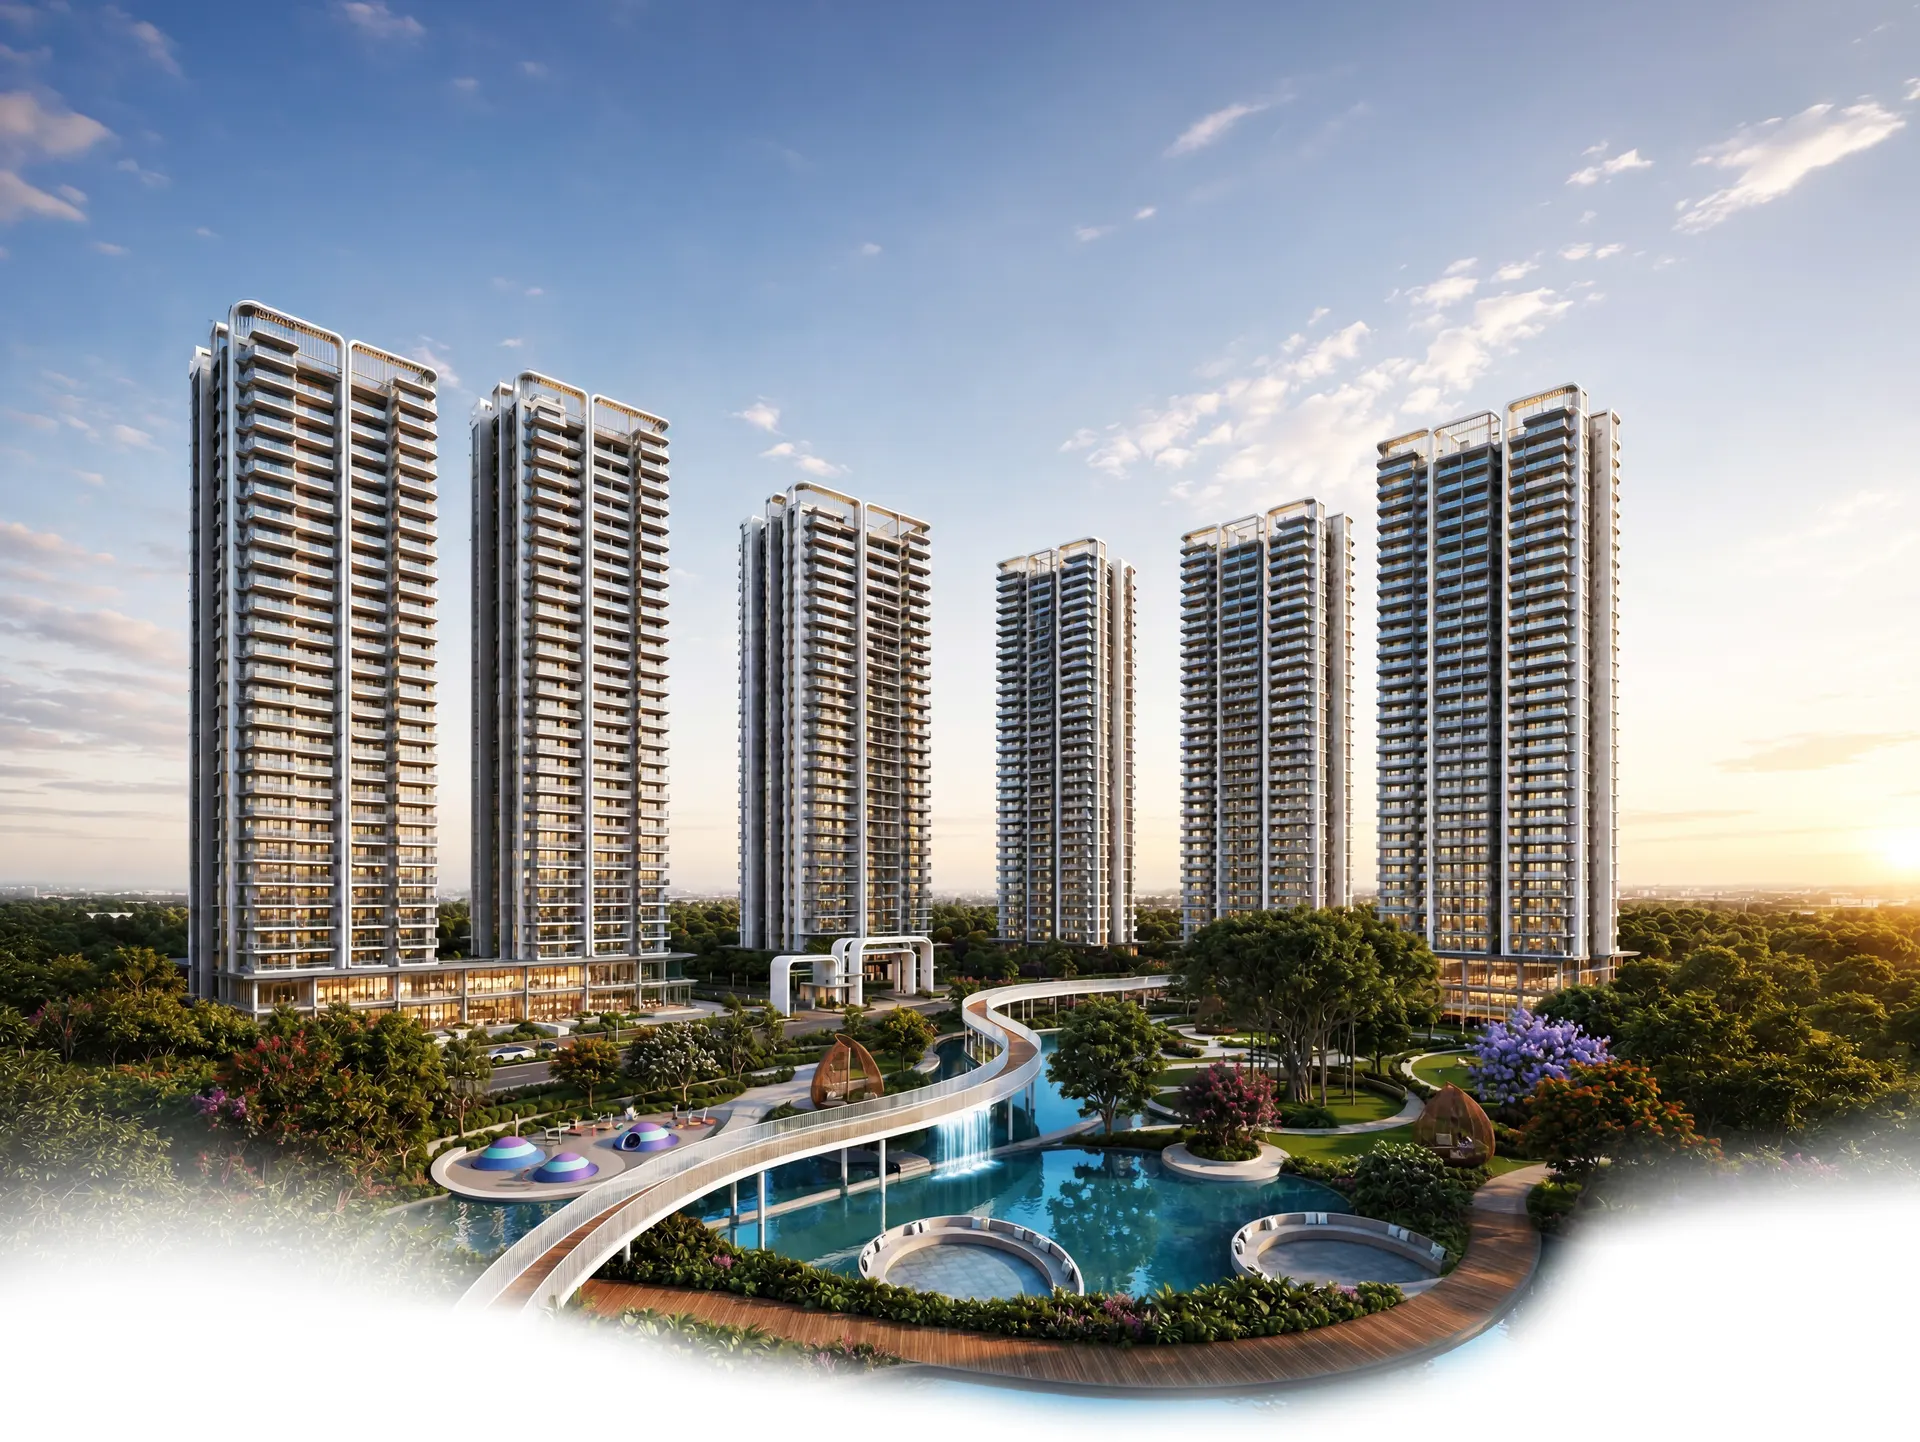
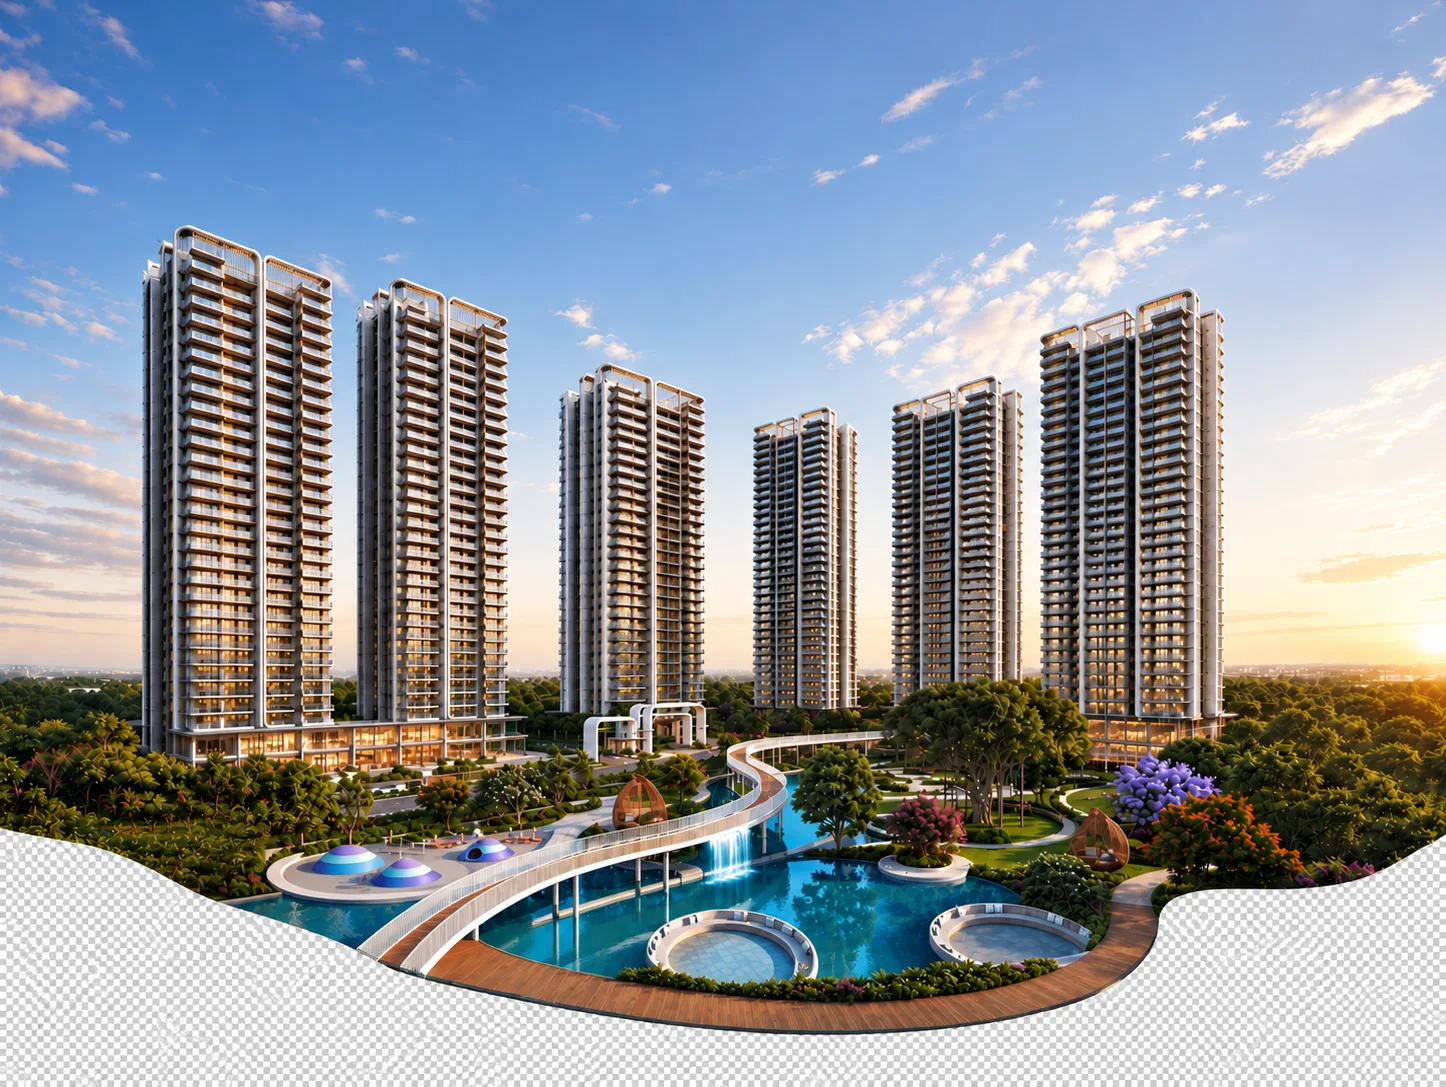
change the bg of ecosystem

diff --git a/src/sections/Ecosystem.tsx b/src/sections/Ecosystem.tsx
@@ -100,7 +100,7 @@ export default function Ecosystem() {
           className="block sm:hidden w-full h-full object-cover object-top"
         />
         <img
-          src="/images/gic-bg-desktop.webp"
+          src="/images/eco-bg.png"
           alt=""
           loading="lazy"
           decoding="async"
